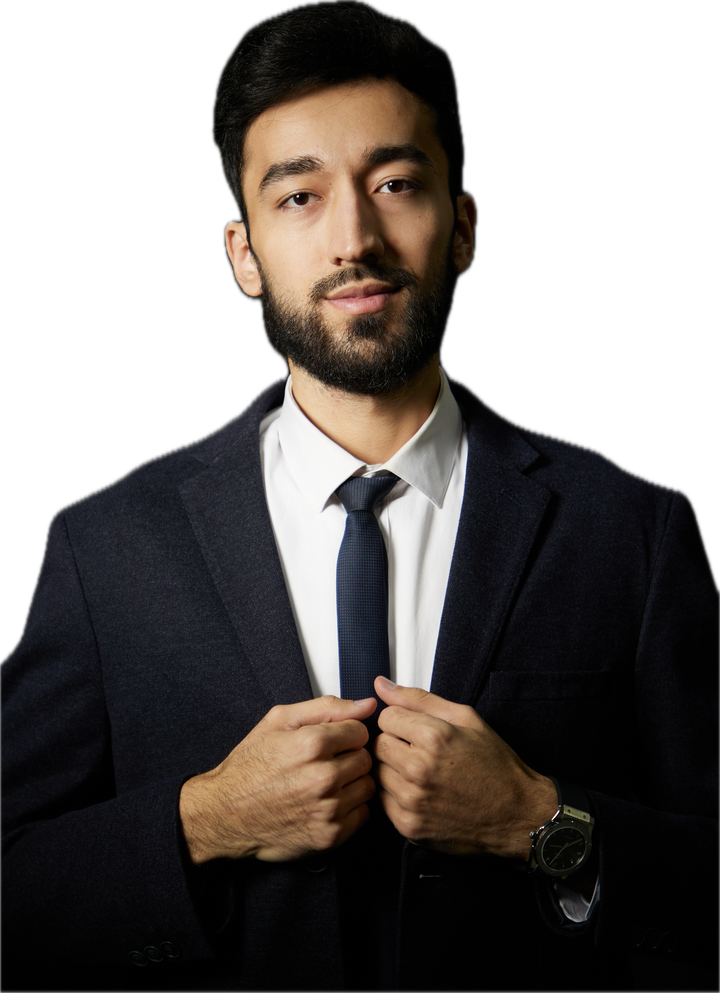
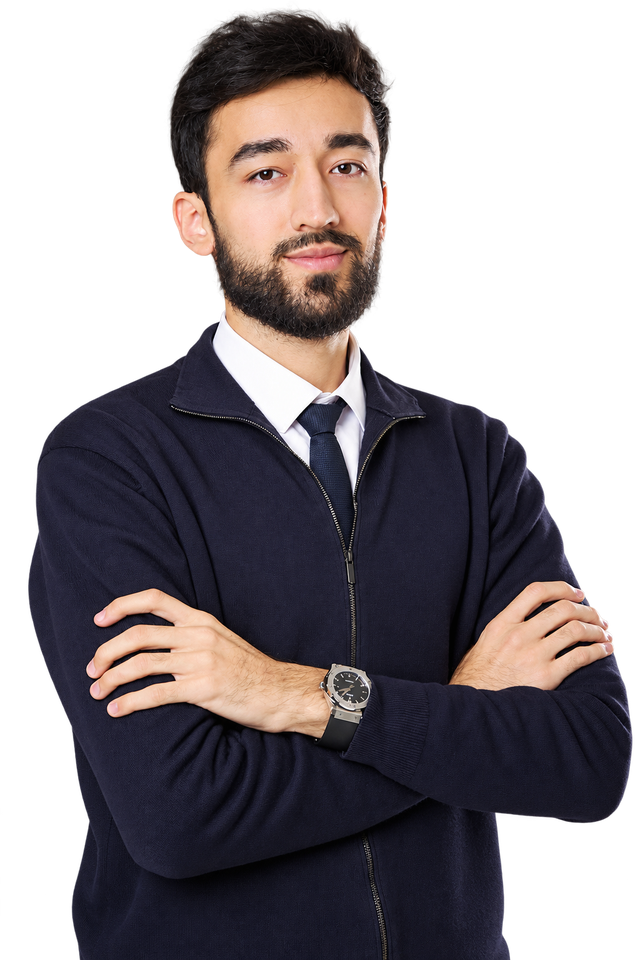
Add files via upload

diff --git a/assets/css/styles.css b/assets/css/styles.css
@@ -99,7 +99,7 @@ button{font-family:inherit}
 
 /* ---------- hero photo ---------- */
 .hero__photo{margin-top:14px}
-.hero__photo img{margin-inline:auto;max-height:42vh;max-width:78%;object-fit:contain}
+.hero__photo img{margin-inline:auto;max-height:34vh;max-width:64%;object-fit:contain}
 .hero__photo + .cta-block{margin-top:0}
 
 /* ---------- CTA bloki ---------- */
@@ -239,29 +239,41 @@ button{font-family:inherit}
 .footer__legal{margin:0 0 10px;color:var(--ink-mute);font-size:14px}
 .footer__disclaimer{margin:0;color:var(--ink-mute);font-size:13px;line-height:1.5}
 
-/* ---------- modal ---------- */
+/* ---------- modal (to'liq ekran) ---------- */
 .modal{position:fixed;inset:0;z-index:80;display:none}
 .modal.is-open{display:block}
-.modal__overlay{position:absolute;inset:0;background:rgba(10,20,14,.55)}
-.modal__sheet{
-  position:absolute;inset:auto 0 0 0;
-  max-height:92vh;overflow-y:auto;
+.modal__panel{
+  position:fixed;inset:0;
+  display:flex;flex-direction:column;
   background:#fff;
-  border-radius:22px 22px 0 0;
-  padding:52px 22px 34px;
-  max-width:var(--wrap);margin-inline:auto;
-  animation:sheet-up .22s ease-out;
+  animation:panel-in .18s ease-out;
 }
-@keyframes sheet-up{from{transform:translateY(18px);opacity:.6}to{transform:none;opacity:1}}
-@media (prefers-reduced-motion:reduce){.modal__sheet{animation:none}}
+@keyframes panel-in{from{opacity:0}to{opacity:1}}
+@media (prefers-reduced-motion:reduce){.modal__panel{animation:none}}
+
+.modal__topbar{
+  flex:0 0 auto;
+  height:64px;
+  background:#101012;
+  display:flex;align-items:center;justify-content:flex-end;
+  padding:0 14px;
+}
 .modal__close{
-  position:absolute;top:12px;right:12px;
   width:40px;height:40px;border:0;border-radius:50%;
-  background:transparent;color:var(--ink);font-size:22px;cursor:pointer;
+  background:transparent;color:#fff;font-size:22px;line-height:1;cursor:pointer;
+}
+
+.modal__body{
+  flex:1 1 auto;
+  overflow-y:auto;
+  width:100%;
+  max-width:var(--wrap);
+  margin-inline:auto;
+  padding:44px 22px 34px;
 }
 .modal__title{
   font-size:26px;font-weight:700;color:#101a13;
-  text-align:center;margin:0 0 26px;line-height:1.25;
+  text-align:left;margin:0 0 30px;line-height:1.25;
 }
 .modal__submit{margin-top:24px}
 
@@ -301,7 +313,7 @@ button{font-family:inherit}
 }
 .thanks__check{
   width:96px;height:96px;border-radius:50%;margin:0 auto 22px;
-  background:linear-gradient(180deg,var(--red) 0%,var(--red-dark) 100%);
+  background:linear-gradient(180deg,var(--green) 0%,var(--green-dark) 100%);
   display:flex;align-items:center;justify-content:center;
   color:#fff;font-size:46px;line-height:1;
 }
@@ -311,7 +323,7 @@ button{font-family:inherit}
   text-transform:uppercase;margin:0 0 16px;
 }
 .thanks__text{margin:0 auto 26px;color:var(--ink-body);max-width:26em}
-.thanks__arrows{font-size:30px;letter-spacing:.28em;color:var(--red);margin-bottom:18px}
+.thanks__arrows{font-size:30px;letter-spacing:.28em;color:var(--green);margin-bottom:18px}
 .thanks__note{margin:18px auto 0;color:var(--ink-mute);font-size:15px;max-width:32em}
 
 /* ---------- desktop ---------- */

diff --git a/index.html b/index.html
@@ -10,6 +10,7 @@
 <meta property="og:type" content="website">
 <meta property="og:image" content="/assets/img/hero.png">
 <link rel="icon" href="/assets/img/favicon.png">
+<link rel="apple-touch-icon" href="/assets/img/apple-touch-icon.png">
 
 <link rel="preconnect" href="https://fonts.googleapis.com">
 <link rel="preconnect" href="https://fonts.gstatic.com" crossorigin>
@@ -79,28 +80,32 @@
 
 <!-- ============ MODAL FORMA ============ -->
 <div class="modal" id="modal" aria-hidden="true">
-  <div class="modal__overlay" data-close></div>
-  <div class="modal__sheet" role="dialog" aria-modal="true" aria-labelledby="modal-title">
-    <button class="modal__close" type="button" data-close aria-label="Yopish">&#10005;</button>
-    <h2 class="modal__title" id="modal-title" data-cfg="formTitle"></h2>
-
-    <div class="field">
-      <label class="field__label" for="lead-name">Ismingiz</label>
-      <input class="field__input" id="lead-name" type="text" placeholder="Ismingiz" autocomplete="given-name" maxlength="60">
+  <div class="modal__panel" role="dialog" aria-modal="true" aria-labelledby="modal-title">
+    <div class="modal__topbar">
+      <button class="modal__close" type="button" data-close aria-label="Yopish">&#10005;</button>
     </div>
 
-    <div class="field">
-      <label class="field__label" for="lead-phone">Telefon raqamingiz</label>
-      <div class="phone">
-        <span class="phone__code">🇺🇿 +998</span>
-        <input class="field__input phone__input" id="lead-phone" type="tel" inputmode="numeric"
-               placeholder="XX XXX-XX-XX" autocomplete="tel-national" maxlength="13">
+    <div class="modal__body">
+      <h2 class="modal__title" id="modal-title" data-cfg="formTitle"></h2>
+
+      <div class="field">
+        <label class="field__label" for="lead-name">Ismingiz</label>
+        <input class="field__input" id="lead-name" type="text" placeholder="Ismingiz" autocomplete="given-name" maxlength="60">
       </div>
+
+      <div class="field">
+        <label class="field__label" for="lead-phone">Telefon raqamingiz</label>
+        <div class="phone">
+          <span class="phone__code">🇺🇿 +998</span>
+          <input class="field__input phone__input" id="lead-phone" type="tel" inputmode="numeric"
+                 placeholder="XX XXX-XX-XX" autocomplete="tel-national" maxlength="13">
+        </div>
+      </div>
+
+      <p class="field__error" id="lead-error" hidden></p>
+
+      <button class="btn btn--red modal__submit" id="lead-submit" type="button" data-cfg="formButton"></button>
     </div>
-
-    <p class="field__error" id="lead-error" hidden></p>
-
-    <button class="btn btn--red modal__submit" id="lead-submit" type="button" data-cfg="formButton"></button>
   </div>
 </div>
 

diff --git a/rahmat.html b/rahmat.html
@@ -6,6 +6,7 @@
 <title>Oxirgi qadam — Digital Ekspert</title>
 <meta name="robots" content="noindex">
 <link rel="icon" href="/assets/img/favicon.png">
+<link rel="apple-touch-icon" href="/assets/img/apple-touch-icon.png">
 <link rel="preconnect" href="https://fonts.googleapis.com">
 <link rel="preconnect" href="https://fonts.gstatic.com" crossorigin>
 <link href="https://fonts.googleapis.com/css2?family=Anton&family=Poppins:wght@400;500;600;700&display=swap" rel="stylesheet">
